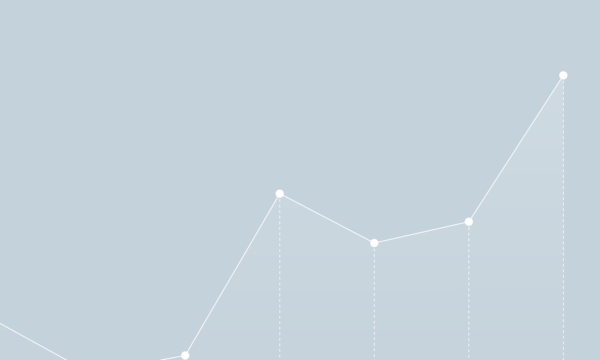
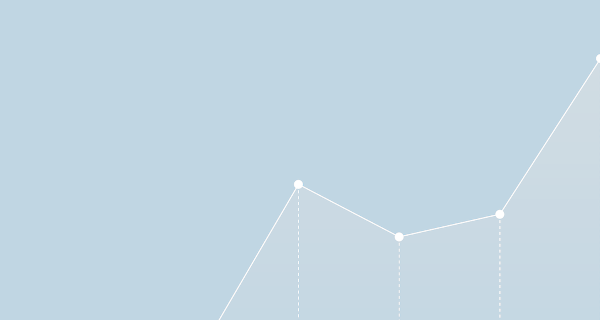
Update gui
Rescale window from 600x360 to 600x320.
Make the intro brief and to the point.
Update canvas background image.
Improve readability. Fix omissions.

diff --git a/eda_report/gui.py b/eda_report/gui.py
@@ -26,10 +26,9 @@ background_image = pkgutil.get_data(__name__, "images/background.png")
 icon = pkgutil.get_data(__name__, "images/icon.png")
 
 description = (
-    "A simple application to help speed up exploratory data analysis and "
-    "reporting. Select a file to analyze, and it will be automatically "
-    "summarised. The result is a report in Word format, complete with summary"
-    " statistics and graphs."
+    "Speed up exploratory data analysis and reporting.\n\n"
+    "Automatically analyze files, and get a Word report complete with "
+    "summary statistics and graphs."
 )
 
 
@@ -59,9 +58,9 @@ class EDAGUI(Frame):  # pragma: no cover
     def __init__(self, master=None, **kwargs) -> None:
         super().__init__(master)
         self.master.title("eda-report")
-        self.master.geometry("600x360")
+        self.master.geometry("600x320")
         self.master.resizable(False, False)  # Fix window size
-        self.master.wm_iconphoto(True, PhotoImage(data=icon))  # Add icon
+        self.master.wm_iconphoto(True, PhotoImage(data=icon))
         self._create_widgets()
         self.pack()
 
@@ -70,7 +69,7 @@ class EDAGUI(Frame):  # pragma: no cover
         with the *canvas(background image)*, *introductory text*, and a
         *button* to select files to analyze.
         """
-        self.canvas = Canvas(self, width=600, height=360)
+        self.canvas = Canvas(self, width=600, height=320)
 
         # Set background image
         self.bg_image = PhotoImage(data=background_image)
@@ -78,24 +77,24 @@ class EDAGUI(Frame):  # pragma: no cover
 
         # Add title
         self.canvas.create_text(
-            (90, 45),
+            (80, 30),
             anchor="nw",
             fill="black",
-            font=("Courier", 35, "bold"),
+            font=("Courier", 28, "bold"),
             text="eda-report",
         )
 
         # Add introductory text
         self.canvas.create_text(
-            (40, 105),
+            (45, 100),
             anchor="nw",
             fill="black",
             font=("Courier", 12),
             text=description,
-            width=500,
+            width=510,
         )
 
-        # Add a button to select input files
+        # Add a button to select input file
         self.button = Button(
             self,
             bg="#204060",
@@ -107,19 +106,19 @@ class EDAGUI(Frame):  # pragma: no cover
             text="Select a file",
         )
         self.canvas.create_window(
-            (175, 250), anchor="nw", height=40, width=250, window=self.button
+            (175, 225), anchor="nw", height=40, width=250, window=self.button
         )
 
         # Show current action
         self.current_action = StringVar()
         self.display_current_action = Label(
             self,
-            bg="#dfddde",
+            bg="#c0d6e3",
             font=("Courier", 10, "italic"),
             textvariable=self.current_action,
         )
         self.canvas.create_window(
-            (140, 315),
+            (140, 280),
             anchor="nw",
             window=self.display_current_action,
         )
@@ -147,7 +146,7 @@ class EDAGUI(Frame):  # pragma: no cover
             self.current_action.set("Analysing data & compiling the report...")
             self._get_save_as_name()
 
-            # Generate the report using the collected arguments
+            # Generate and save the report using the collected arguments
             ReportDocument(
                 self.data,
                 title=self.report_title,
@@ -164,6 +163,9 @@ class EDAGUI(Frame):  # pragma: no cover
     def _get_data_from_file(self, retries: int = 1) -> None:
         """Creates a file dialog to help navigate to and select a file to
         analyze.
+
+        Args:
+            retries (int): Number of additional prompts, if input is invalid.
         """
         file_name = askopenfilename(
             title="Select a file to analyze",
@@ -222,17 +224,17 @@ class EDAGUI(Frame):  # pragma: no cover
         """Creates a graphical color picking tool to help set the desired
         color for the generated graphs.
         """
-        # Returns a tuple e.g ((255.99609375, 69.26953125, 0.0), '#ff4500').
         color = askcolor(
             color="cyan", title="Please select a color for the graphs"
-        )[-1]
-        self.graph_color = color or "cyan"
+        )
+        # Pick the hexadecimal color format. `askcolor` returns a tuple e.g
+        # ((255.99609375, 69.26953125, 0.0), '#ff4500').
+        self.graph_color = color[-1] or "cyan"
 
     def _get_save_as_name(self) -> None:
         """Create a file dialog to help select a destination folder and file
         name for the generated report.
         """
-        # Propmt user for desired output file-name
         save_name = asksaveasfilename(
             initialdir=".",
             initialfile="eda-report.docx",
